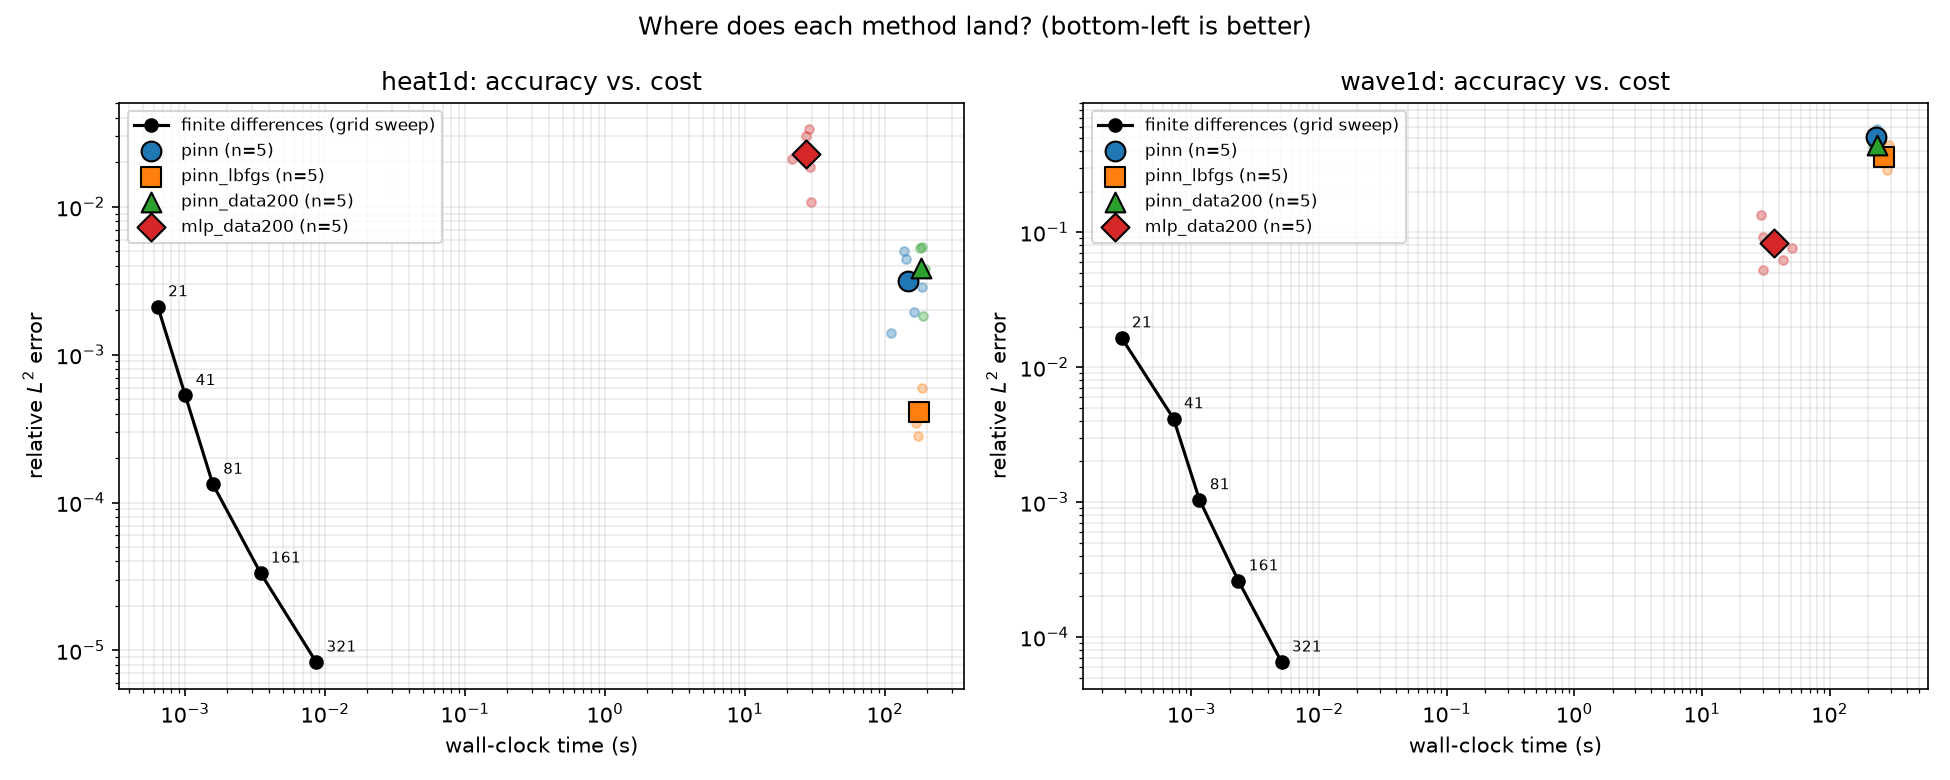
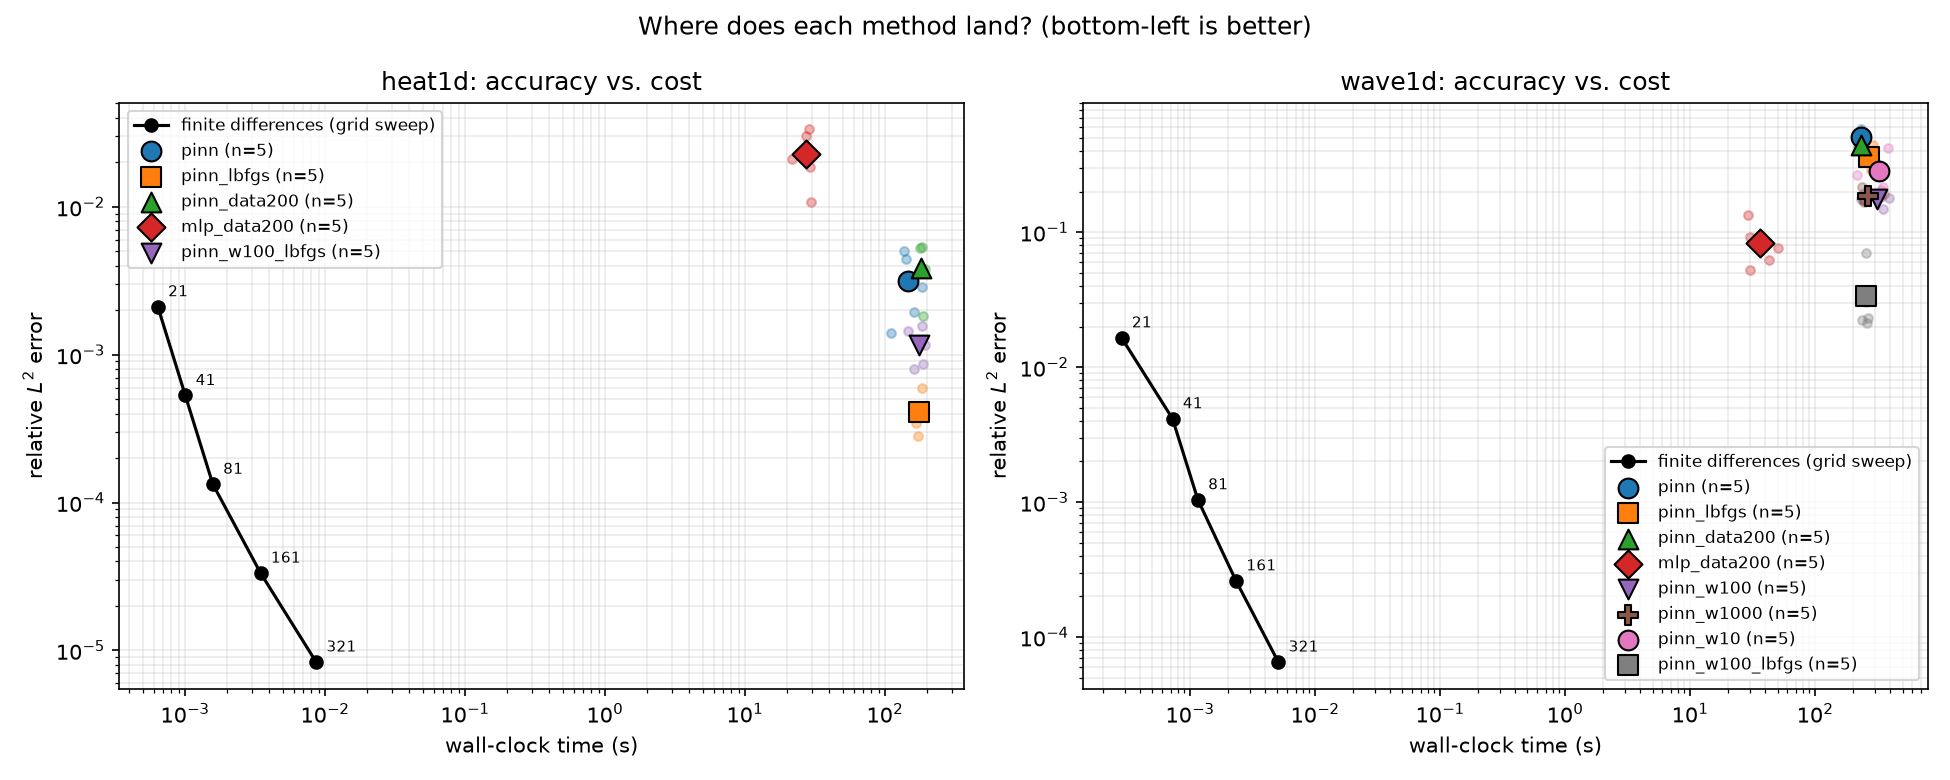
Update README and figures with the best-shot results

diff --git a/docs/LOG.md b/docs/LOG.md
@@ -156,7 +156,7 @@ The finite-difference times are single runs under a millisecond, so the time rat
 
 ## 2026-10-20
 
-**Day 3 plan: give the PINN a fair shot on the wave problem.** Written before running anything.
+**Plan: give the PINN a fair shot on the wave problem.** ORDER_NOTE
 
 **What I know.** On the wave problem the vanilla PINN loses mode 3 (share of the error 0.44, against 0.24 for mode 1), while a no-physics network with the same architecture learns it (0.04). In the seed-0 example the PINN's mode-3 amplitude even starts near 0.1 at t = 0 instead of 0.5, so it does not fit that part of the initial condition.
 
@@ -166,9 +166,7 @@ The finite-difference times are single runs under a millisecond, so the time rat
 
 **Prediction.** If H1 is right, at the best weight the mean relative L2 error falls below 0.25 (it is 0.51 now) and mode 3's share falls below 0.25. I expect a U shape: weight 1000 should be worse than 100, because the PDE term then barely matters. If mode 3's share stays above 0.4 at every weight, H1 is rejected as the main cause and the next test is Fourier features, a direct test of H2. Anything in between is a partial effect and I will say so.
 
-## 2026-10-20 (result)
-
-**Day 3 result.** The prediction above is unchanged.
+**Result.**
 
 | variant | w_ic = w_bc | rel. L2 mean | std | min to max | mode 1 | mode 3 |
 |---|---|---|---|---|---|---|
@@ -194,13 +192,11 @@ The finite-difference times are single runs under a millisecond, so the time rat
 
 **Next.** Combine the best weight with L-BFGS on both problems to get a final best-effort PINN number. Then the inverse problem, which is the second half of my bet and the PINN's best chance.
 
-## 2026-10-20 (best shot)
+## 2026-10-21
 
-**Prediction, written before running.** Combining weight 100 with L-BFGS (`pinn_w100_lbfgs`) should lower the wave error below 0.177, since L-BFGS alone gave about 29% on the wave, but it will still be more than 5 times above the coarsest finite-difference grid (1.65e-2). On heat I expect it to match or beat plain L-BFGS (4.1e-4). In both cases I expect it to stay at least 10^5 times slower than the finite-difference grid with the same error.
+**Best shot: the best weight plus L-BFGS.**
 
-## 2026-10-21 (best shot, wave)
-
-**Note on the order.** I drafted the prediction below before running anything, but I did not commit it first, so the commit history cannot prove the order. Treat it as drafted before, not verified before.
+**Order note.** I drafted the prediction below before running anything, but I did not commit it first, so the commit history cannot prove the order. Treat it as drafted before, not verified before.
 
 **Prediction (drafted before the runs).** Combining weight 100 with L-BFGS (`pinn_w100_lbfgs`) should lower the wave error below 0.177, since L-BFGS alone gave about 29% on the wave, but it will still be more than 5 times above the coarsest finite-difference grid (1.65e-2). On heat I expect it to match or beat plain L-BFGS (4.1e-4). In both cases I expect it to stay at least 10^5 times slower than the finite-difference grid with the same error.
 
@@ -215,12 +211,37 @@ The finite-difference times are single runs under a millisecond, so the time rat
 
 Per seed for `pinn_w100_lbfgs` (seeds 0 to 4): 7.0e-2, 2.1e-2, 2.3e-2, 3.0e-2, 2.3e-2.
 
+**Heat result.**
+
+| variant | rel. L2 mean | std | min to max | mean time |
+|---|---|---|---|---|
+| pinn | 3.14e-3 | 1.56e-3 | 1.40e-3 to 5.01e-3 | 147 s |
+| pinn_lbfgs | 4.12e-4 | 1.19e-4 | 2.80e-4 to 5.97e-4 | 175 s |
+| pinn_w100_lbfgs | 1.17e-3 | 3.38e-4 | 7.95e-4 to 1.56e-3 | 174 s |
+
+Per seed for `pinn_w100_lbfgs`: 1.2e-3, 1.6e-3, 7.9e-4, 1.4e-3, 8.7e-4.
+
+**Mode analysis, wave (share of the relative L2 error, mean of five seeds).**
+
+| variant | mode 1 | mode 2 | mode 3 | mode 4 | mode 5 | mode 6 |
+|---|---|---|---|---|---|---|
+| pinn | 0.240 | 0.017 | 0.442 | 0.005 | 0.037 | 0.003 |
+| pinn_w100 | 0.025 | 0.019 | 0.156 | 0.016 | 0.055 | 0.012 |
+| pinn_w100_lbfgs | 0.003 | 0.005 | 0.013 | 0.011 | 0.021 | 0.008 |
+| mlp_data200 | 0.023 | 0.016 | 0.043 | 0.016 | 0.049 | 0.021 |
+
 **Against the prediction.**
-- Right: the error is below 0.177 (0.033). The PINN is still about 9 x 10^5 times slower than the coarsest finite-difference grid (255 s against 0.28 ms), so "at least 10^5" holds.
-- Wrong: I said it would stay more than 5 times above the coarsest grid (1.65e-2). The mean (3.34e-2) is about 2.0 times above it and the median (2.3e-2) is about 1.4 times. Four of five seeds lie between 2.1e-2 and 3.0e-2, and seed 0 (7.0e-2) pulls the mean up. I underestimated how well the two fixes would combine.
-- The two fixes interact. Loss weights alone: 2.9 times lower error (0.510 to 0.177). L-BFGS alone: 1.4 times (0.510 to 0.363). Together: 15 times (0.510 to 0.033). They are not additive, because L-BFGS gains much more once the loss terms are balanced. My untested guess is that an imbalanced loss makes the landscape too ill-conditioned for L-BFGS to use.
-- Still not competitive: the coarsest grid (21 points, 0.28 ms) beats the best-shot PINN's median, and the 41-point grid (4.15e-3) is about 8 times better than its mean.
+- Wave, right: the error is below 0.177 (0.033). The PINN is still about 9 x 10^5 times slower than the coarsest finite-difference grid (255 s against 0.28 ms), so "at least 10^5" holds.
+- Wave, wrong: I said it would stay more than 5 times above the coarsest grid (1.65e-2). The mean (3.34e-2) is about 2.0 times above it and the median (2.3e-2) about 1.4 times. Four of five seeds lie between 2.1e-2 and 3.1e-2, and seed 0 (7.0e-2) pulls the mean up.
+- Heat, wrong: I expected it to match or beat plain L-BFGS (4.1e-4). It is 1.17e-3, about 2.8 times worse, and worse in every one of the five seeds. It is still 2.7 times better than Adam alone (3.14e-3).
+- Heat, right: the finite-difference grid with the same error lies between 21 points (2.1e-3, 0.64 ms) and 41 points (5.3e-4, 1.0 ms), so the PINN (174 s) is roughly 10^5 times slower.
 
-**Caveats.** I chose the weight using the exact error, which a real user would not have. Only three weights and one L-BFGS setting were tried, one architecture, five seeds. The `pinn_w10` seed 0 re-run (after a laptop sleep) reproduced the earlier result exactly: the five-seed row returned to its earlier values (mean 2.83e-1, std 8.76e-2).
+**What this says.**
+- H2 (spectral bias), as I stated it (the network learns the fast mode too slowly whatever the weights), is rejected for this problem and budget. With balanced weights and L-BFGS the same network learns mode 3 almost perfectly (share 0.013, against 0.442 for the vanilla PINN and 0.043 for the data-only network). The remaining error is mostly leakage into mode 5 (0.021), about half the squared error in modes 1 to 6, so small high-frequency noise and not a missed physical mode. I no longer need the Fourier-features test.
+- The two fixes interact. On the wave, loss weights alone gave 2.9 times lower error (0.510 to 0.177) and L-BFGS alone 1.4 times (0.510 to 0.363). Together they gave 15 times (0.510 to 0.033), far more than the product of the two (2.9 x 1.4 = 4.1). My untested guess is that an imbalanced loss makes the landscape too ill-conditioned for L-BFGS to use.
+- The best weight does not transfer. Weight 100 rescued the wave but made the heat PINN about 2.8 times worse than plain L-BFGS. Each problem needs its own tuning, and the classical solvers needed none. Untested guess: the wave loss starts about 30 times larger than the heat loss (249 against 8.6 at epoch 0), so heat was already better balanced.
+- The classical solver still wins on both. Wave: the best-shot PINN is still about 2 times above the coarsest grid's error and about a million times slower. Heat: the best PINN (plain L-BFGS, 4.1e-4, 175 s) is matched by the 41-point grid (5.3e-4, 1.0 ms).
 
-**Open.** The heat best shot is still running. Mode analysis of `pinn_w100_lbfgs`.
+**Caveats.** I chose the weights using the exact error, which a real user would not have. I applied the wave's best weight to heat without tuning it there. Only three weights and one L-BFGS setting were tried, one architecture, five seeds. The `pinn_w10` re-run finished: its five-seed row matches the earlier one to three digits (mean 2.83e-1, std 8.76e-2) and its mean time is now 322 s.
+
+**Open.** The inverse problem, the second half of my bet. Burgers' equation.

diff --git a/README.md b/README.md
@@ -4,7 +4,7 @@
 
 **Neural networks are being sold as PDE solvers. This repo checks whether you should buy one.**
 
-![Classical baselines against exact solutions](figures/baselines.png)
+![Accuracy against cost for classical and neural solvers](figures/accuracy_vs_time.png)
 
 ## The problem
 
@@ -30,10 +30,10 @@ the neural network actually win?**
 > **inverse** problems (recovering unknown physical parameters) or when data
 > is sparse and noisy.
 
-I think the first half is right and I'm not sure about the second. The most
-recent comparison I found (Jekic et al., 2025) has the classical method
-winning on noisy inverse problems too. So this is a test I can lose, and the
-repo is built so that anyone can see if I do.
+So far the first half holds on the two problems tested. The second half is
+untested. The most recent comparison I found (Jekic et al., 2025) has the
+classical method winning on noisy inverse problems too, so this is a test I can
+lose, and the repo is built so that anyone can see if I do.
 
 ## How the test works
 
@@ -41,44 +41,65 @@ A fair fight needs a referee nobody can argue with.
 
 - **Exact answers.** Every test problem has a closed-form solution, so error
   is measured against the truth, not against another approximation.
-- **Strong baselines.** A challenger only means something if the incumbent is
-  good. Each classical scheme must reproduce its theoretical convergence order
-  before it is allowed to judge anything.
-- **One scoreboard.** Relative L2 error, worst-case error, and wall-clock
-  time, the same for every method, on the same machine.
-- **Repeats.** Neural results get several seeds and are reported with spread,
-  because a single lucky training run proves nothing.
+- **Strong baselines.** Each classical scheme must reproduce its theoretical
+  convergence order before it is allowed to judge anything, and is run at five
+  grid sizes so the PINN is compared with a cost/accuracy curve, not one point.
+- **One scoreboard.** Relative L2 error and wall-clock time, the same for every
+  method, on one CPU thread.
+- **Repeats.** Every neural result is five seeds, reported with spread.
+- **Controls.** A network with no physics term, and a PINN given the same
+  observations, show what the physics is actually worth.
 - **One config per run.** A result is fully determined by a YAML file and a
-  seed, and the file is saved next to the result.
+  seed, and finished runs are skipped on re-run.
 
-## Where it stands
+## What I found so far
 
-The referee is built and checked. Two classical solvers are done: Crank-Nicolson
-for heat flow, leapfrog for waves. Halve the grid spacing and the error drops
-by a factor of four, which is what theory predicts for a second-order scheme.
+Mean over five seeds, neural solvers scored on a 41-point grid:
 
-| Problem | Method | Observed order | Relative L2 error, h = 1/160 |
-|---|---|---|---|
-| 1D heat | Crank-Nicolson | 1.996 | 3.3e-5 |
-| 1D wave | Leapfrog | 1.996 | 2.6e-4 |
+| Method | Heat error | Heat time | Wave error | Wave time |
+|---|---|---|---|---|
+| Finite differences, 41 points | 5.3e-4 | 1.0 ms | 4.2e-3 | 0.7 ms |
+| PINN | 3.1e-3 | 147 s | 5.1e-1 | 230 s |
+| PINN + L-BFGS | 4.1e-4 | 175 s | 3.6e-1 | 268 s |
+| PINN + 200 observations | 3.8e-3 | 180 s | 4.4e-1 | 234 s |
+| PINN + loss weight 100 + L-BFGS | 1.2e-3 | 174 s | 3.3e-2 | 255 s |
+| Network with no physics, 200 observations | 2.3e-2 | 27 s | 8.4e-2 | 36 s |
 
-Two details I found while checking, both now covered by tests:
+- **The classical solver wins on both forward problems, even against a tuned
+  PINN.** On the wave equation the best tuned PINN reaches an error about twice
+  that of the coarsest finite-difference grid I ran (21 points, 0.28 ms) and
+  takes about a million times longer. On heat, the best PINN is matched by a
+  41-point grid that runs in about a millisecond, against 175 s of training.
+- **Tuning matters enormously, and it does not transfer.** On the wave
+  equation, rebalancing the loss weights and adding L-BFGS together cut the
+  error 15 times (0.51 to 0.033), far more than either change alone (2.9 and
+  1.4 times). The same weights made the heat PINN 2.8 times worse than plain
+  L-BFGS. Each problem needs its own tuning, and the classical solvers needed
+  none.
+- **Why the wave PINN failed: loss balance, not the fast mode.** Splitting the
+  error into Fourier modes shows the plain PINN misses mode 3 almost completely
+  (share 0.44). With balanced weights and L-BFGS the same network learns it
+  (share 0.013, better than the no-physics network's 0.043).
+- **Exact data did not help the heat PINN,** and at equal data the physics term
+  helps on heat but hurts on the wave equation until the loss is rebalanced.
 
-- Crank-Nicolson stays stable at a mesh ratio of 200, where the simple
-  explicit scheme blows up beyond 0.5.
-- At Courant number exactly 1, the leapfrog scheme reproduces the exact wave
-  solution to machine precision (4e-16). That looks great and is a trap: it
-  makes convergence studies meaningless, so they run at 0.5.
+![Which Fourier modes carry the error on the wave problem](figures/wave_modes_weights.png)
+
+Caveats: the loss weights were chosen using the exact error, which a real user
+would not have; five seeds; one architecture; wall-clock times are noisy, so
+read time ratios as orders of magnitude. I wrote predictions down and several
+turned out wrong. Details and dead ends are in [`docs/LOG.md`](docs/LOG.md).
 
 ## Roadmap
 
 | Milestone | Status |
 |---|---|
 | Exact solutions and classical baselines, verified | done |
-| PINN and plain-MLP solvers behind the same interface | next |
+| PINN and no-physics control, five-seed sweeps | done |
+| Give the PINN its best shot (loss weights, L-BFGS) | done |
+| Inverse problems under noise and sparse data | next |
 | Burgers' equation (shocks) and 2D Poisson | planned |
-| Inverse problems under noise and sparse data | planned |
-| Accuracy versus cost plots, written report | planned |
+| Written report | planned |
 
 ## Try it
 
@@ -89,32 +110,33 @@ git clone https://github.com/ridoy1211/pinn-audit
 cd pinn-audit
 python -m venv .venv
 .venv\Scripts\activate            # macOS / Linux: source .venv/bin/activate
-pip install -e ".[dev]"
+pip install -e ".[dev,nn]"
 
-pytest                            # tests, including the convergence-order checks
+pytest                            # tests, including convergence-order and autograd checks
 pinnaudit convergence --config configs/heat_fd.yaml
+pinnaudit sweep --config configs/sweeps/forward_heat.yaml --n-seeds 1
+pinnaudit summary --name forward_heat
+python scripts/plot_pareto.py --name forward_heat forward_wave
 ```
 
-The last command refines the grid four times and reports:
-
-```
-observed orders: 1.994, 1.996, 1.998
-asymptotic order: 1.998
-```
-
-Regenerate the figure above with `python scripts/plot_baselines.py`.
+The classical runs take milliseconds. Each neural run takes minutes on a laptop
+CPU, so a full five-seed sweep takes a while. Sweeps are resumable, so you can
+stop and restart them.
 
 ## What's in the repo
 
 ```
 src/pinnaudit/
   problems/     PDEs with exact solutions (the ground truth)
-  solvers/      classical schemes; neural solvers will implement the same interface
+  solvers/      finite differences, PINN, no-physics control, one shared interface
   metrics.py    error measures and observed convergence order
+  modes.py      Fourier-mode breakdown of a solver's error
+  sweep.py      resumable multi-seed experiments
   config.py     validated run configuration
-  cli.py        pinnaudit run | convergence | list
-configs/        one YAML file per experiment
-tests/          analytic solutions, convergence order, stability, config validation
+  cli.py        pinnaudit run | sweep | summary | convergence | list
+configs/        one YAML file per experiment, and configs/sweeps/ for the sweeps
+tests/          exact solutions, convergence order, autograd residuals, sweeps
+scripts/        figure generation
 docs/LOG.md     dated lab notes, including dead ends
 docs/REFERENCES.md  the five papers behind the design
 ```
